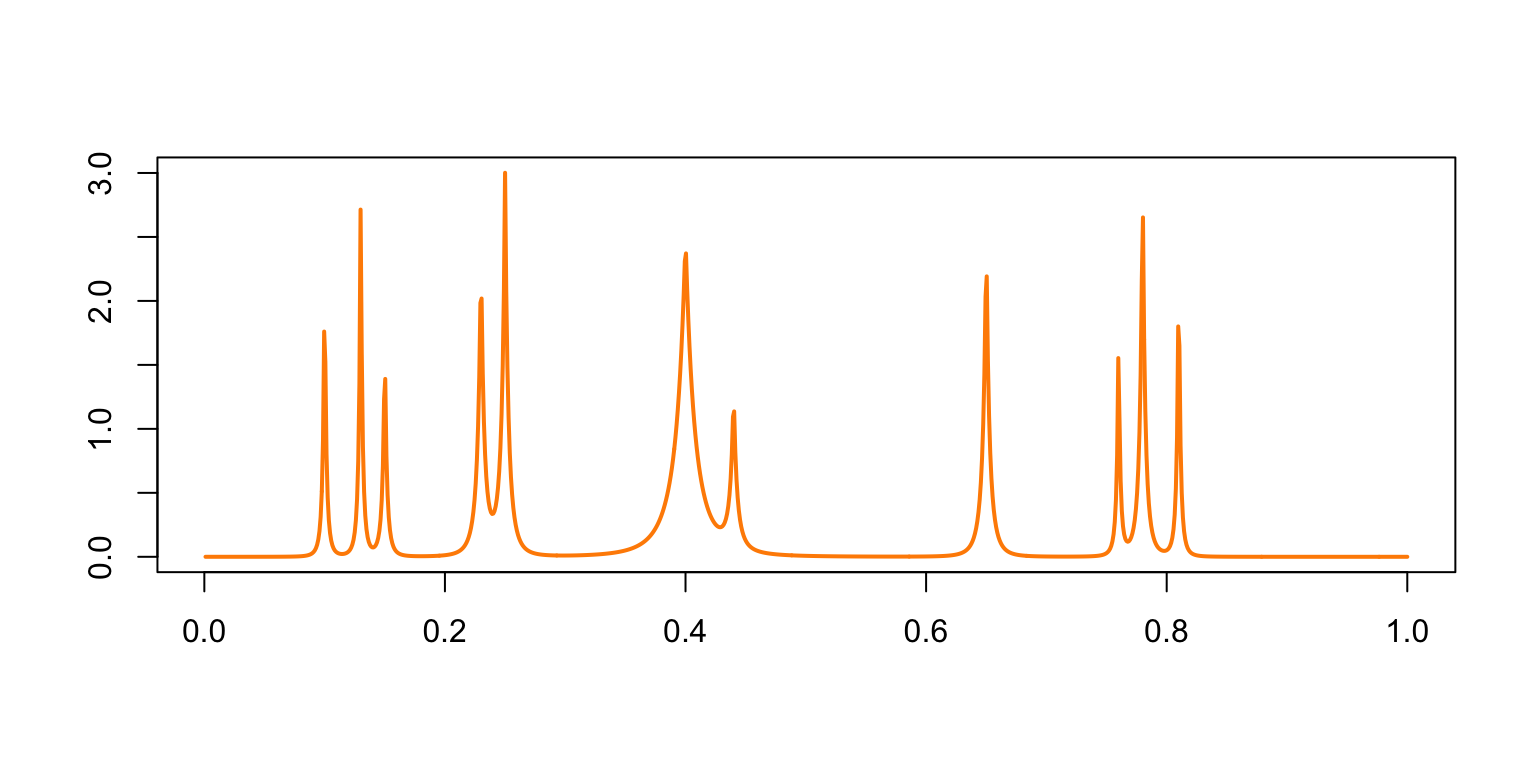
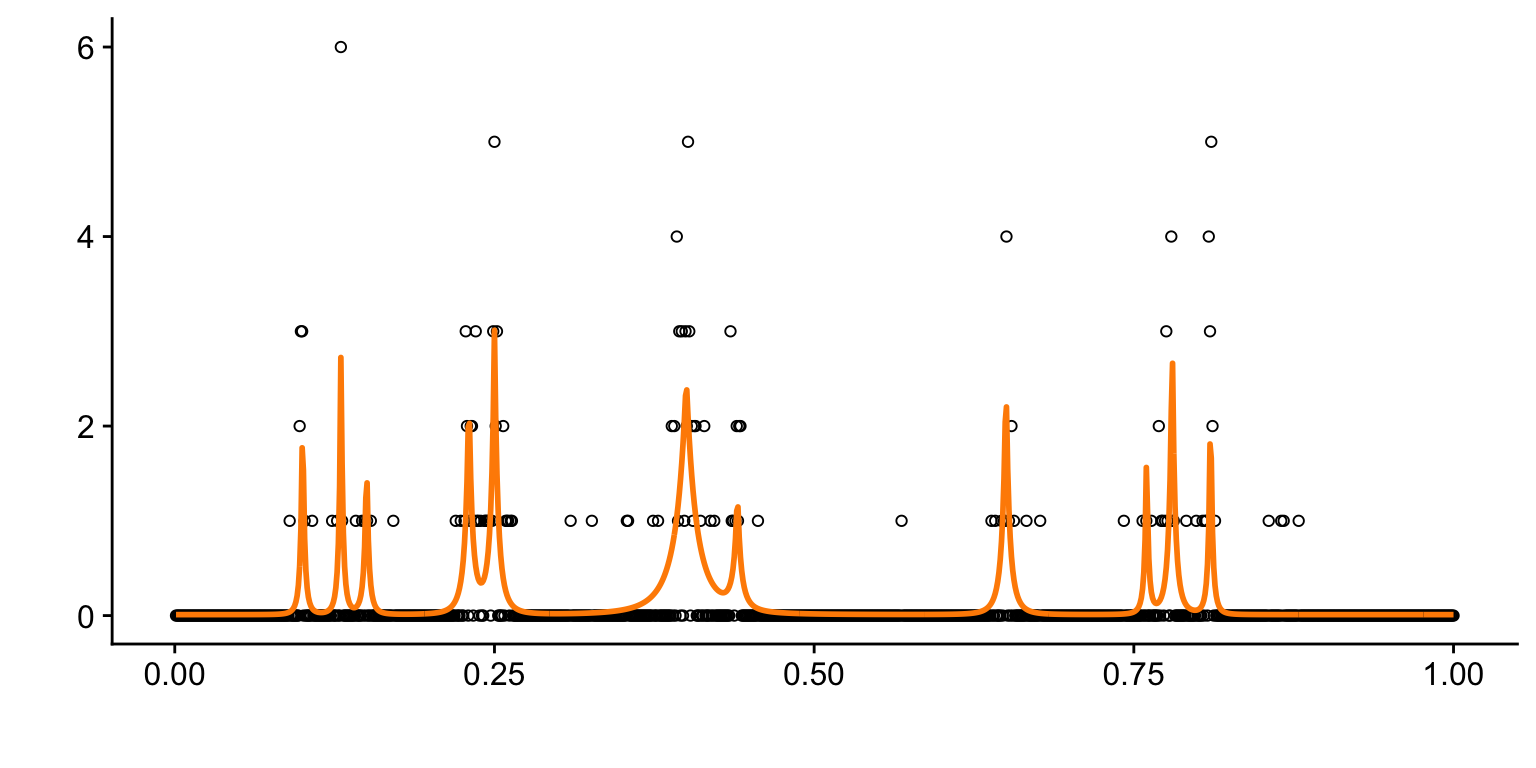
Added data points to plots to illustrate Poisson simulations.

diff --git a/docs/poisson.html b/docs/poisson.html
@@ -310,7 +310,7 @@ div.section {
 
 <p>
 <button type="button" class="btn btn-default btn-workflowr btn-workflowr-report" data-toggle="collapse" data-target="#workflowr-report">
-<span class="glyphicon glyphicon-list" aria-hidden="true"></span> workflowr <span class="glyphicon glyphicon-exclamation-sign text-danger" aria-hidden="true"></span>
+<span class="glyphicon glyphicon-list" aria-hidden="true"></span> workflowr <span class="glyphicon glyphicon-ok text-success" aria-hidden="true"></span>
 </button>
 </p>
 <div id="workflowr-report" class="collapse">
@@ -319,7 +319,7 @@ div.section {
 <a data-toggle="tab" href="#summary">Summary</a>
 </li>
 <li>
-<a data-toggle="tab" href="#checks"> Checks <span class="glyphicon glyphicon-exclamation-sign text-danger" aria-hidden="true"></span> </a>
+<a data-toggle="tab" href="#checks"> Checks <span class="glyphicon glyphicon-ok text-success" aria-hidden="true"></span> </a>
 </li>
 <li>
 <a data-toggle="tab" href="#versions">Past versions</a>
@@ -331,7 +331,7 @@ div.section {
 <strong>Last updated:</strong> 2019-12-16
 </p>
 <p>
-<strong>Checks:</strong> <span class="glyphicon glyphicon-ok text-success" aria-hidden="true"></span> 6 <span class="glyphicon glyphicon-exclamation-sign text-danger" aria-hidden="true"></span> 1
+<strong>Checks:</strong> <span class="glyphicon glyphicon-ok text-success" aria-hidden="true"></span> 7 <span class="glyphicon glyphicon-exclamation-sign text-danger" aria-hidden="true"></span> 0
 </p>
 <p>
 <strong>Knit directory:</strong> <code>smash-paper/analysis/</code> <span class="glyphicon glyphicon-question-sign" aria-hidden="true" title="This is the local directory in which the code in this file was executed."> </span>
@@ -347,12 +347,12 @@ This reproducible <a href="http://rmarkdown.rstudio.com">R Markdown</a> analysis
 <div class="panel panel-default">
 <div class="panel-heading">
 <p class="panel-title">
-<a data-toggle="collapse" data-parent="#workflowr-checks" href="#strongRMarkdownfilestronguncommittedchanges"> <span class="glyphicon glyphicon-exclamation-sign text-danger" aria-hidden="true"></span> <strong>R Markdown file:</strong> uncommitted changes </a>
+<a data-toggle="collapse" data-parent="#workflowr-checks" href="#strongRMarkdownfilestronguptodate"> <span class="glyphicon glyphicon-ok text-success" aria-hidden="true"></span> <strong>R Markdown file:</strong> up-to-date </a>
 </p>
 </div>
-<div id="strongRMarkdownfilestronguncommittedchanges" class="panel-collapse collapse">
+<div id="strongRMarkdownfilestronguptodate" class="panel-collapse collapse">
 <div class="panel-body">
-<p>The R Markdown file has unstaged changes. To know which version of the R Markdown file created these results, you’ll want to first commit it to the Git repo. If you’re still working on the analysis, you can ignore this warning. When you’re finished, you can run <code>wflow_publish</code> to commit the R Markdown file and build the HTML.</p>
+<p>Great! Since the R Markdown file has been committed to the Git repository, you know the exact version of the code that produced these results.</p>
 </div>
 </div>
 </div>
@@ -419,10 +419,10 @@ This reproducible <a href="http://rmarkdown.rstudio.com">R Markdown</a> analysis
 <div class="panel panel-default">
 <div class="panel-heading">
 <p class="panel-title">
-<a data-toggle="collapse" data-parent="#workflowr-checks" href="#strongRepositoryversionstrongahrefhttpsgithubcomstephenslabsmashpapertreeaca0299fae6e6f6aede6d80c7031630083644e13targetblankaca0299a"> <span class="glyphicon glyphicon-ok text-success" aria-hidden="true"></span> <strong>Repository version:</strong> <a href="https://github.com/stephenslab/smash-paper/tree/aca0299fae6e6f6aede6d80c7031630083644e13" target="_blank">aca0299</a> </a>
+<a data-toggle="collapse" data-parent="#workflowr-checks" href="#strongRepositoryversionstrongahrefhttpsgithubcomstephenslabsmashpapertree323d535aa06c7b5b702f50cefc63f106b4414088targetblank323d535a"> <span class="glyphicon glyphicon-ok text-success" aria-hidden="true"></span> <strong>Repository version:</strong> <a href="https://github.com/stephenslab/smash-paper/tree/323d535aa06c7b5b702f50cefc63f106b4414088" target="_blank">323d535</a> </a>
 </p>
 </div>
[2 lines of base64/hex data omitted]
 <div class="panel-body">
 <p>
 Great! You are using Git for version control. Tracking code development and connecting the code version to the results is critical for reproducibility. The version displayed above was the version of the Git repository at the time these results were generated. <br><br> Note that you need to be careful to ensure that all relevant files for the analysis have been committed to Git prior to generating the results (you can use <code>wflow_publish</code> or <code>wflow_git_commit</code>). workflowr only checks the R Markdown file, but you know if there are other scripts or data files that it depends on. Below is the status of the Git repository when the results were generated:
@@ -458,13 +458,7 @@ Ignored files:
     Ignored:    dsc/code/Wavelab850/MEXSource/dst_iii.mexmac
 
 Untracked files:
-    Untracked:  analysis/poisson.R
-    Untracked:  analysis/poisson.R~
     Untracked:  files.txt
-
-Unstaged changes:
-    Modified:   analysis/poisson.Rmd
-    Modified:   code/poisson.functions.R
 
 </code></pre>
 <p>
@@ -503,6 +497,57 @@ Message
 </tr>
 </thead>
 <tbody>
+<tr>
+<td>
+Rmd
+</td>
+<td>
+<a href="https://github.com/stephenslab/smash-paper/blob/323d535aa06c7b5b702f50cefc63f106b4414088/analysis/poisson.Rmd" target="_blank">323d535</a>
+</td>
+<td>
+Peter Carbonetto
+</td>
+<td>
+2019-12-16
+</td>
+<td>
+wflow_publish(“poisson.Rmd”)
+</td>
+</tr>
+<tr>
+<td>
+Rmd
+</td>
+<td>
+<a href="https://github.com/stephenslab/smash-paper/blob/00cf92a6ee9b12ba9d4a4cb00bb33985fa5351dd/analysis/poisson.Rmd" target="_blank">00cf92a</a>
+</td>
+<td>
+Peter Carbonetto
+</td>
+<td>
+2019-12-16
+</td>
+<td>
+Implemented function create.signal.plot in poisson.functions.R.
+</td>
+</tr>
+<tr>
+<td>
+html
+</td>
+<td>
+<a href="https://rawcdn.githack.com/stephenslab/smash-paper/00cf92a6ee9b12ba9d4a4cb00bb33985fa5351dd/docs/poisson.html" target="_blank">00cf92a</a>
+</td>
+<td>
+Peter Carbonetto
+</td>
+<td>
+2019-12-16
+</td>
+<td>
+Implemented function create.signal.plot in poisson.functions.R.
+</td>
+</tr>
 <tr>
 <td>
 Rmd
@@ -1455,6 +1500,17 @@ Date
 <tbody>
 <tr>
 <td>
+<a href="https://github.com/stephenslab/smash-paper/blob/00cf92a6ee9b12ba9d4a4cb00bb33985fa5351dd/docs/figure/poisson.Rmd/plot-spikes-function-1.png" target="_blank">00cf92a</a>
+</td>
+<td>
+Peter Carbonetto
+</td>
+<td>
+2019-12-16
+</td>
+</tr>
+<tr>
+<td>
 <a href="https://github.com/stephenslab/smash-paper/blob/a334fd2eff697956297dcbf379afcd9fcf755739/docs/figure/poisson.Rmd/plot-spikes-function-1.png" target="_blank">a334fd2</a>
 </td>
 <td>
@@ -1769,6 +1825,17 @@ Date
 </tr>
 </thead>
 <tbody>
+<tr>
+<td>
+<a href="https://github.com/stephenslab/smash-paper/blob/00cf92a6ee9b12ba9d4a4cb00bb33985fa5351dd/docs/figure/poisson.Rmd/plot-angles-function-1.png" target="_blank">00cf92a</a>
+</td>
+<td>
+Peter Carbonetto
+</td>
+<td>
+2019-12-16
+</td>
+</tr>
 <tr>
 <td>
 <a href="https://github.com/stephenslab/smash-paper/blob/a334fd2eff697956297dcbf379afcd9fcf755739/docs/figure/poisson.Rmd/plot-angles-function-1.png" target="_blank">a334fd2</a>
@@ -2087,6 +2154,17 @@ Date
 <tbody>
 <tr>
 <td>
+<a href="https://github.com/stephenslab/smash-paper/blob/00cf92a6ee9b12ba9d4a4cb00bb33985fa5351dd/docs/figure/poisson.Rmd/plot-heavisine-function-1.png" target="_blank">00cf92a</a>
+</td>
+<td>
+Peter Carbonetto
+</td>
+<td>
+2019-12-16
+</td>
+</tr>
+<tr>
+<td>
 <a href="https://github.com/stephenslab/smash-paper/blob/a334fd2eff697956297dcbf379afcd9fcf755739/docs/figure/poisson.Rmd/plot-heavisine-function-1.png" target="_blank">a334fd2</a>
 </td>
 <td>
@@ -2364,8 +2442,9 @@ Peter Carbonetto
 <div id="bursts-data" class="section level2">
 <h2>Bursts data</h2>
 <p>This is the function used to simulate the “Bursts” data sets at different ranges of intensities:</p>
-<pre class="r"><code>mu.bur &lt;- bursts.f(t)
-plot(t,mu.bur,xlab = &quot;&quot;,ylab = &quot;&quot;,type = &quot;l&quot;,lwd = 2,col = &quot;darkorange&quot;)</code></pre>
+<pre class="r"><code>mu.bur &lt;- 0.01 + bursts.f(t)
+x      &lt;- rpois(n,mu.bur)
+create.signal.plot(mu.bur,x)</code></pre>
 <p><img src="figure/poisson.Rmd/plot-bursts-function-1.png" width="768" style="display: block; margin: auto;" /></p>
 <p>
 <button type="button" class="btn btn-default btn-xs btn-workflowr btn-workflowr-fig" data-toggle="collapse" data-target="#fig-plot-bursts-function-1">
@@ -2668,8 +2747,9 @@ Peter Carbonetto
 <div id="clipped-blocks-data" class="section level2">
 <h2>Clipped Blocks data</h2>
 <p>This is the function used to simulate the “Clipped Blocks” data sets at different ranges of intensities:</p>
-<pre class="r"><code>mu.cb &lt;- cblocks.f(t)
-plot(t,mu.cb,xlab = &quot;&quot;,ylab = &quot;&quot;,type = &quot;l&quot;,lwd = 2,col = &quot;darkorange&quot;)</code></pre>
+<pre class="r"><code>mu.cb &lt;- 0.01 + cblocks.f(t)
+x     &lt;- rpois(n,mu.cb)
+create.signal.plot(mu.cb,x)</code></pre>
 <p><img src="figure/poisson.Rmd/plot-cb-function-1.png" width="768" style="display: block; margin: auto;" /></p>
 <p>
 <button type="button" class="btn btn-default btn-xs btn-workflowr btn-workflowr-fig" data-toggle="collapse" data-target="#fig-plot-cb-function-1">
@@ -2972,8 +3052,9 @@ Peter Carbonetto
 <div id="bumps-data" class="section level2">
 <h2>Bumps data</h2>
 <p>This is the function used to simulate the “Bumps” data sets at different ranges of intensities:</p>
-<pre class="r"><code>mu.b &lt;- bumps.f(t)
-plot(t,mu.b,xlab = &quot;&quot;,ylab = &quot;&quot;,type = &quot;l&quot;,lwd = 2,col = &quot;darkorange&quot;)</code></pre>
+<pre class="r"><code>mu.b &lt;- 0.01 + bumps.f(t)
+x    &lt;- rpois(n,mu.b)
+create.signal.plot(mu.b,x)</code></pre>
 <p><img src="figure/poisson.Rmd/plot-bumps-function-1.png" width="768" style="display: block; margin: auto;" /></p>
 <p>
 <button type="button" class="btn btn-default btn-xs btn-workflowr btn-workflowr-fig" data-toggle="collapse" data-target="#fig-plot-bumps-function-1">
